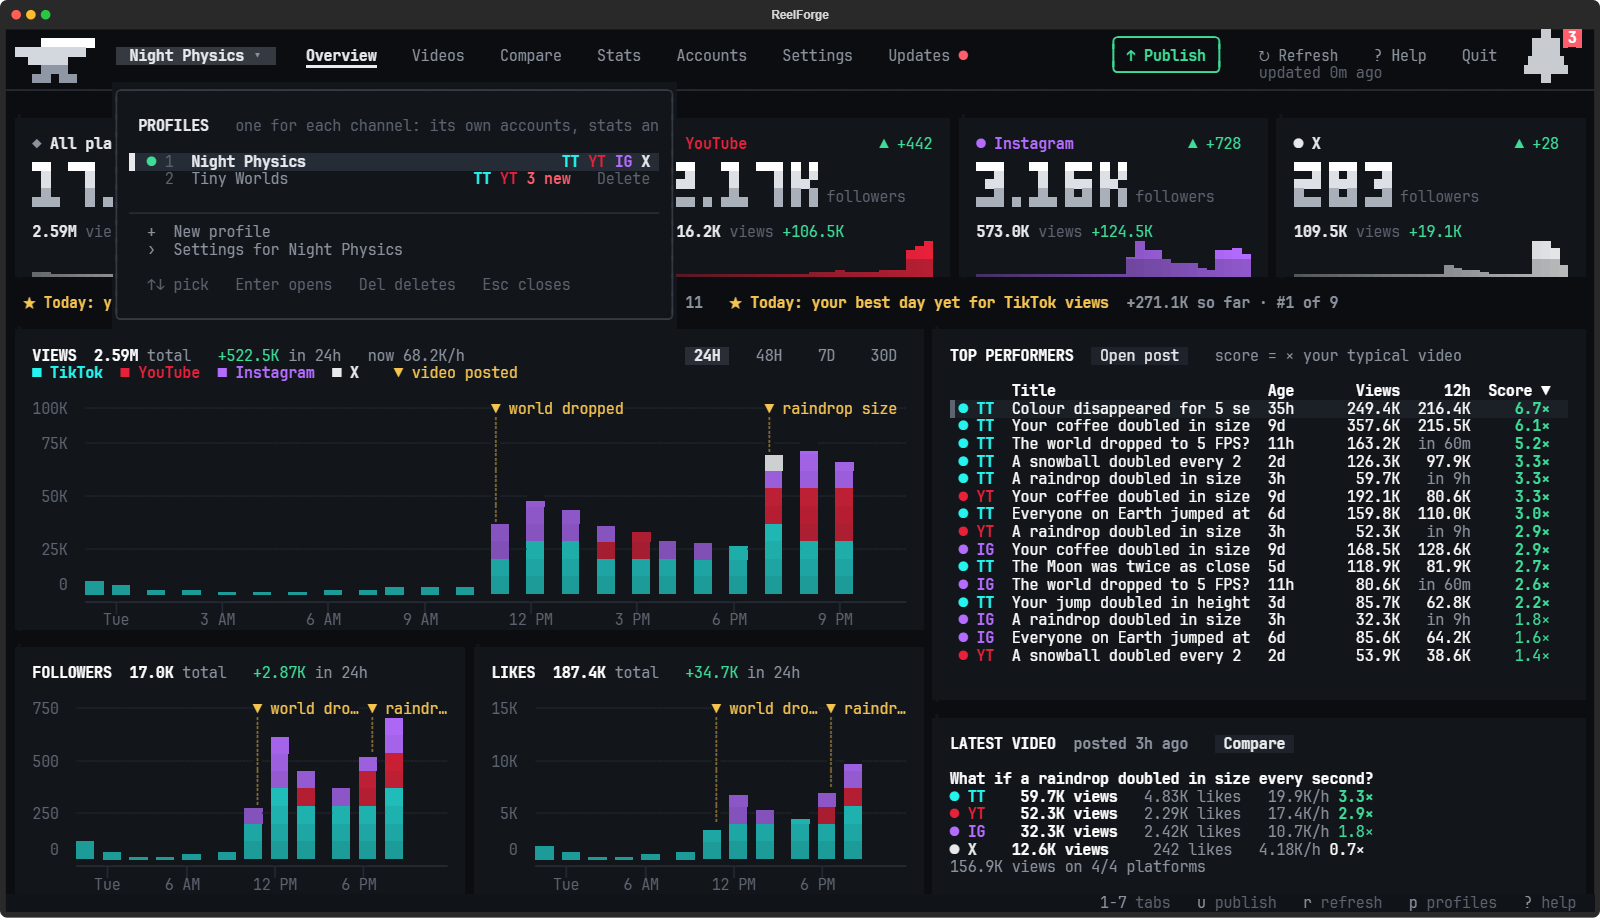
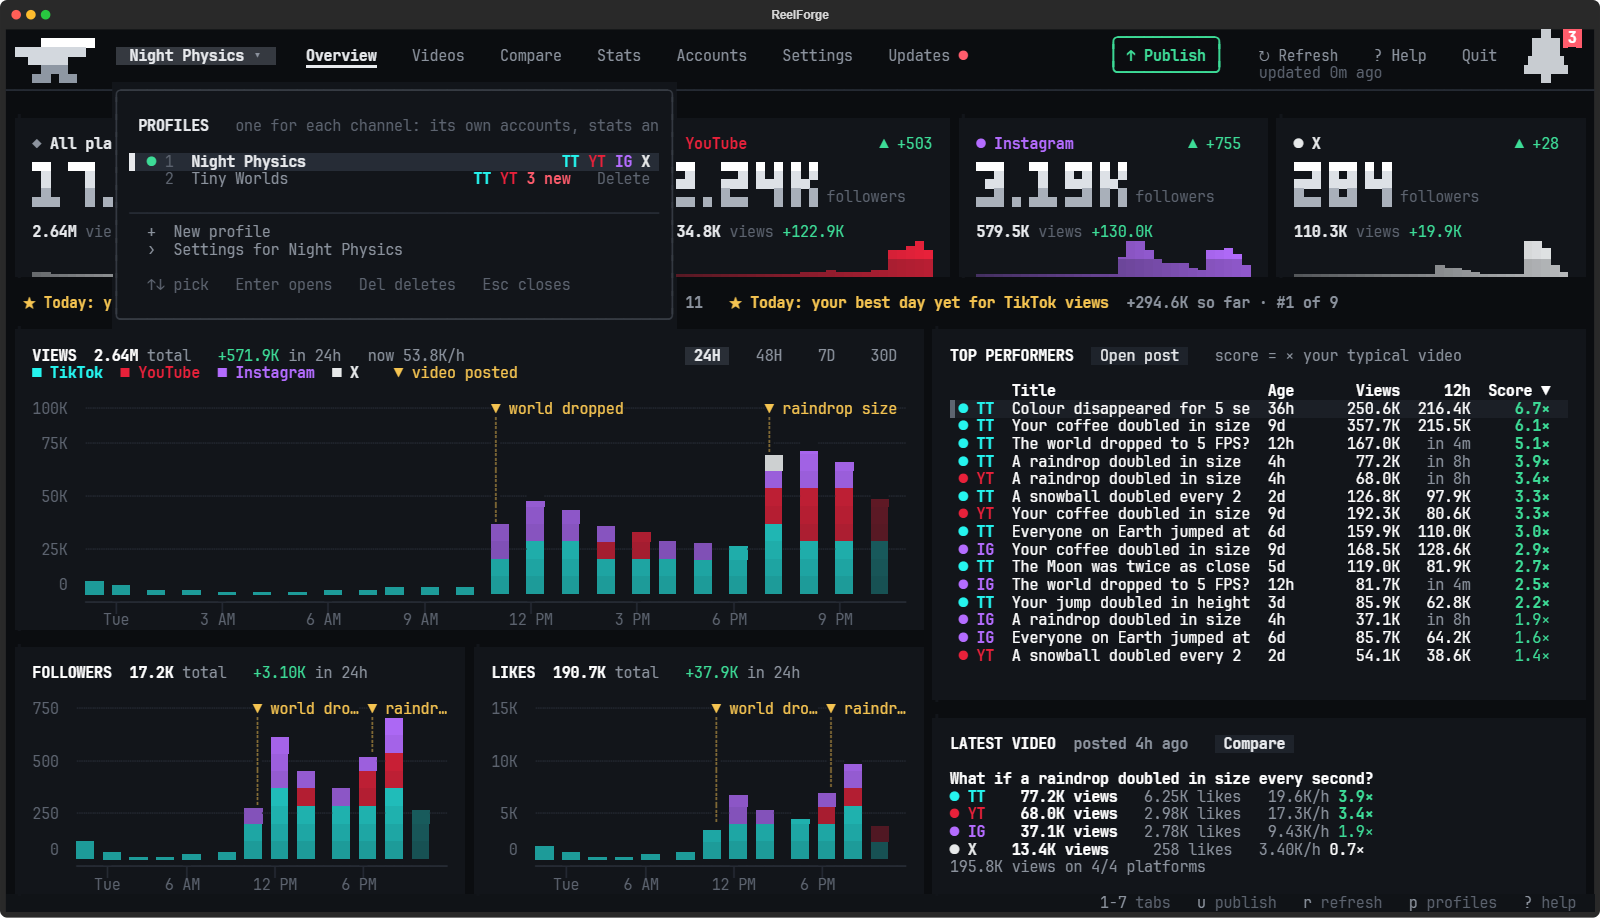
ReelForge 1.0.9
Publish as a green button at the top right (u opens it, and the other seven tabs keep their order), when the
stats were last read under Refresh with the bottom bar no longer listing the platforms, the charts' gaps filled in
with a hatched estimate, and a views chart on the Stats tab. The release notes lead with those and keep 1.0.8's two
lines under them, and the screenshots are retaken for this version.

diff --git a/studio/__init__.py b/studio/__init__.py
@@ -7,5 +7,5 @@
 
 KIT_NAME = "ReelForge"
 KIT_SLUG = "reelforge"
-KIT_VERSION = "1.0.8"
+KIT_VERSION = "1.0.9"
 BLENDER_VERSION = "4.5.5"   # the Blender LTS the pipeline is built and tested on (any 4.5.x works)

diff --git a/.github/release-notes.md b/.github/release-notes.md
@@ -1,25 +1,20 @@
+## What's new in 1.0.9
+
+- **Publish is a green button at the top right.** It's no longer a tab: click it from any tab, or press **u**.
+  - It turns solid green while you're on Publish, and `reelforge publish` still opens it.
+  - The other seven tabs keep your order: **1**-**7** and `reelforge 1` to `reelforge 7` open them.
+- **When your stats were last read is under ↻ Refresh** at the top, in amber while they're being read.
+  - The bar along the bottom no longer lists your platforms: it names one only when its last refresh failed.
+  - Click it for the Accounts tab, which says why.
+- **Gaps in the charts are filled in.** The hours your computer was off are estimated and drawn hatched.
+  - That's on the Overview, the Stats tab and the Accounts tab's charts. Pointing at one says it's estimated.
+  - An estimate is never your best day, hour or bar, and badges still count only what was read.
+- **A views chart on the Stats tab** above followers and likes: your views added up across your platforms, with its own breakdown.
+
 ## What's new in 1.0.8
 
-- **Your stats come first.** The tabs now start Overview, Videos, Compare, Publish, Stats, Accounts, Settings, Updates.
-  - The number keys and `reelforge 1` to `reelforge 8` follow this order. An order you picked yourself stays as it is.
-  - **Reset to default** on the Settings tab puts the tabs in this order.
+- **Your stats come first** in the tabs' default order, and **Reset to default** on the Settings tab puts them back in it.
 - **The badges' pop-up shows whole.** Pointing at the badges on the Overview or Videos tab no longer leaves a stray box under them.
-
-## What's new in 1.0.7
-
-- **A Stats tab.** Your followers and likes added up across your platforms, over time.
-  - Tick a platform to count it in the totals, or untick it to leave it out. Pick 24H, 48H, 7D, 30D or ALL.
-  - Point at a chart for the totals at that moment and each platform's part. Yellow marks show when videos went up.
-- **Delete a channel you added.** Click **Delete** beside it in the profile menu or on the Settings tab's **Profiles** panel.
-  - You type its name first. Its folder moves into a backup in the ReelForge folder, so nothing is lost.
-  - **Restore** puts it back as it was, and **Move to the Recycle Bin** (the Trash on a Mac) frees its space.
-  - `reelforge profiles delete NAME` and `reelforge profiles restore` do the same from a terminal.
-- **Put the tabs in your order.** On the Settings tab, drag a tab where you want it, or move it with the arrows.
-  - The number keys and `reelforge 1` to `reelforge 8` follow your order, in every profile.
-- **An FAQ on the Settings tab.** Click a question for its answer.
-  - The first says which model your AI uses and how hard it thinks: your AI app decides that, and the answer says how to change it.
-- **Sort the Compare tab's episodes.** Newest first, oldest first, or by most views on every platform added up.
-- **Fixes.** **Open profile** works again, and X's **Connect** answers while pop-ups are up.
 
 Already have ReelForge? Open the **Updates** tab and click **Update and restart**.
 
@@ -48,7 +43,7 @@ Mac works too, more slowly), and about 15 GB of free disk space.
 1. Open the ReelForge folder in Claude Code (the Claude desktop app's **Code** tab, then **Open folder…**), or run
    `codex` in it.
 2. Say **"make my first video"**.
-3. Type `reelforge publish` in a terminal (or open ReelForge's icon and go to **Publish**) to post it.
+3. Type `reelforge publish` in a terminal (or open ReelForge's icon and click the green **Publish** button) to post it.
 
 Already have ReelForge? Its **Updates** tab (`reelforge updates`) installs this version in one click.
 
